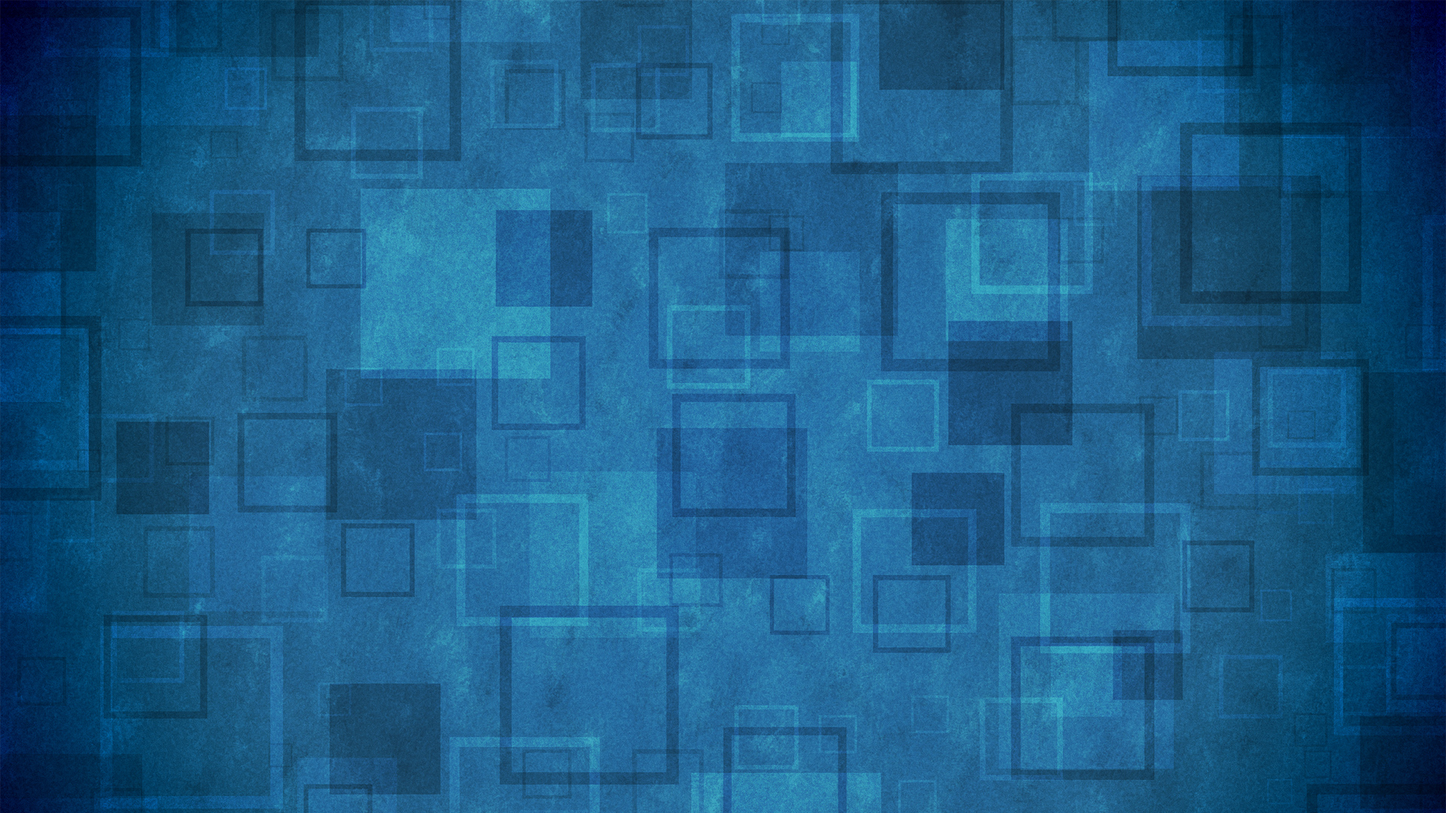
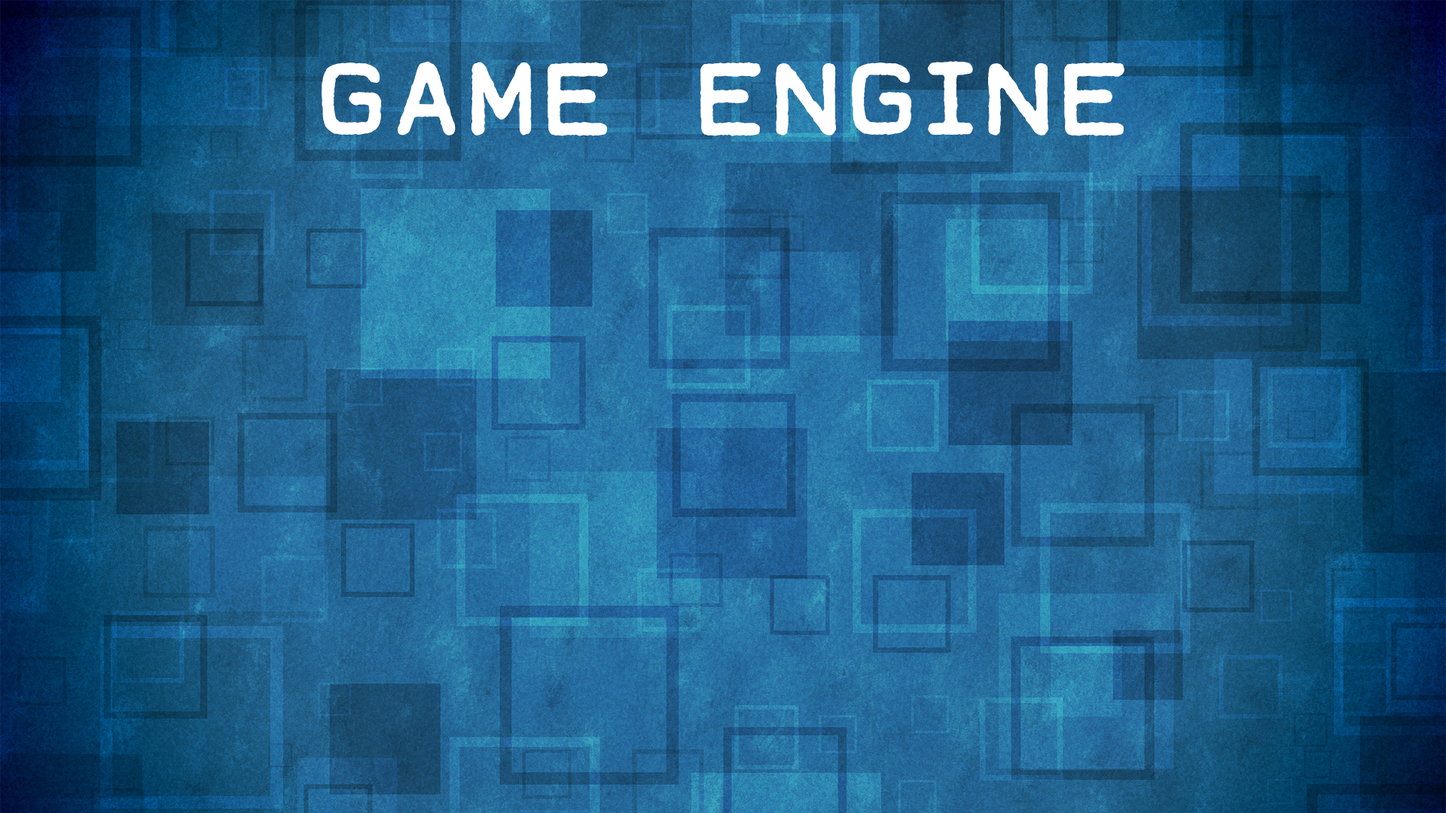
Buttons hovering now functional

Changed region(s): [[0.4688, 0.0611, 0.7812, 0.1833], [0.2188, 0.0611, 0.4375, 0.1833]]

diff --git a/include/Button.h b/include/Button.h
@@ -1,0 +1,108 @@
+
+#pragma once
+
+#include <iostream>
+#include <PreHeader.h>
+#include <Freetype.h>
+
+class Button
+{
+private:
+	////////////////////////////////////////////////////////////
+	// Member data
+	////////////////////////////////////////////////////////////
+	Freetype *m_ButtonSprite;
+	Freetype *m_ButtonHoverSprite;
+	int m_iCurrentTexID; ///< int which represents the assigned texture for button
+	bool m_bActive; ///< bool which becomes active if button is hovered over
+	glm::vec2 ButtonPos;
+	glm::vec2 m_Scale;
+
+public:
+	////////////////////////////////////////////////////////////
+	/// \brief Default constructor
+	///
+	/// Allows creation of a button without variables.
+	///
+	////////////////////////////////////////////////////////////
+	Button(); 
+
+	////////////////////////////////////////////////////////////
+	/// \brief Overloaded constructer which contructs a button from a X position, Y position, Texture ID and a TextureLoader
+	///
+	/// \param fX X Position of button
+	/// \param fY Y Position of button
+	/// \param iTextureID int Texture assigned to button
+	/// \param TexLoader TextureLoader holding textures for button
+	///
+	/// \see SetProperties
+	///
+	////////////////////////////////////////////////////////////
+	Button(float fX, float fY, int iTextureID, string ButtonLoc, string ButtonHoverLoc, vec3 scale, Freetype *Overlay); // Creates button with given parameters
+
+	////////////////////////////////////////////////////////////
+	/// \brief Creates a button using these given parameters
+	///
+	/// \param fX X Position of button
+	/// \param fY Y Position of button
+	/// \param iTextureID int Texture assigned to button
+	/// \param TexLoader TextureLoader holding textures for button
+	///
+	/// \see Button
+	///
+	////////////////////////////////////////////////////////////
+	void SetProperties(float fX, float fY, int iTextureID, string ButtonLoc, string ButtonHoverLoc, vec3 scale, Freetype *Overlay);
+
+	////////////////////////////////////////////////////////////
+	/// \brief Changes active texture on the button
+	///
+	/// \param iNewTextureID Texture index of buttons TextureLoader
+	///
+	/// \see m_TexLoader
+	///
+	////////////////////////////////////////////////////////////
+	void ChangeTexture(int iNewTextureID); 
+
+	////////////////////////////////////////////////////////////
+	/// \brief Checks if the button is being hovered over
+	///
+	/// \param MousePos Mouse cursor position
+	///
+	///
+	////////////////////////////////////////////////////////////
+	void CheckHover(sf::Vector2i MousePos, int index);
+
+	////////////////////////////////////////////////////////////
+	/// \brief Allows class to draw drawables to the screen
+	///
+	/// \param target Drawable to be drawn
+	/// \param states States to be drawn
+	///
+	////////////////////////////////////////////////////////////
+	void draw();
+
+	////////////////////////////////////////////////////////////
+	/// \brief Returns true if button is being hovered over
+	///
+	///
+	////////////////////////////////////////////////////////////
+	bool isActive();
+	~Button(); 
+
+};
+
+////////////////////////////////////////////////////////////
+/// \class Button
+///	
+/// Allows creation of clickable sprites which can perform actions.
+/// These sprites are used within the menu system for this project.
+/// 
+/// Buttons check if they are being hovered and are able to change
+/// their texture if they are. If a button is clicked while being hovered
+/// it will return its m_bActive bool as true allowing for tasked to be
+/// run and completed because of it.
+/// 
+/// To be instantiated a button needs a X position, a Y position, a int which
+/// represents which texture it should currently have and a textureloader
+/// 
+////////////////////////////////////////////////////////////

diff --git a/src/Menu.cpp b/src/Menu.cpp
@@ -22,9 +22,9 @@ void Menu::linkShaders()
 	}
 }
 
-Menu::Menu(sf::Vector2i windowSize)
+Menu::Menu(sf::Vector2i windowSizes)
 {
-	m_windowSize = windowSize;
+	m_windowSize = windowSizes;
 }
 
 void Menu::initScene(Freetype * Overlay)
@@ -35,8 +35,15 @@ void Menu::initScene(Freetype * Overlay)
 	// Stops rendered models from being transparent
 	gl::Enable(gl::DEPTH_TEST);
 
-	UI->LoadHUDImage("assets/UI/BG.png", glm::vec3(m_windowSize.x / 2, m_windowSize.y / 2, 1), 0, glm::vec3(1920,1080,1.f));
-	UI->LoadHUDImage("assets/UI/Play.png", glm::vec3(m_windowSize.x / 2, m_windowSize.y / 2, 1), 0, glm::vec3(147, 46, 1.f));
+	m_PlayButton = new Button(m_windowSize.x / 2, 700, 0, "assets/UI/Play.png", "assets/UI/PlayHover.png", glm::vec3(147.f, 46.f, 1.f), Overlay);
+
+	m_EditorButton = new Button(m_windowSize.x / 2, 600, 0, "assets/UI/WorldEditor.png", "assets/UI/WorldEditorHover.png", glm::vec3(148.f, 46.f, 1.f), Overlay);
+
+	m_ExitButton = new Button(m_windowSize.x / 2, 400, 0, "assets/UI/Exit.png", "assets/UI/ExitHover.png", glm::vec3(83, 46.f, 1.f), Overlay);
+	
+
+	//UI->LoadHUDImage("assets/UI/Play.png", glm::vec3(m_windowSize.x / 2, m_windowSize.y / 2, 1), 0, glm::vec3(147, 46, 1.f));
+	UI->LoadHUDImage("assets/UI/BG.png", glm::vec3(m_windowSize.x / 2, m_windowSize.y / 2, 1), 0, glm::vec3(1920,1080,1.f), true);
 }
 
 void Menu::setMousePos(GLFWwindow * GWindow, sf::Vector2i mousepos)
@@ -49,6 +56,9 @@ void Menu::update(float t)
 {
 	m_V = mat4(1.0f);
 	m_P = glm::perspective(90.f, (float)m_windowSize.x / m_windowSize.y, 1.f, 5000.f);
+	m_PlayButton->CheckHover(m_mousePos, 0);
+	m_EditorButton->CheckHover(m_mousePos, 2);
+	m_ExitButton->CheckHover(m_mousePos, 4);
 }
 
 void Menu::render()
@@ -56,17 +66,25 @@ void Menu::render()
 	// Check depth and clear last frame
 	gl::Clear(gl::COLOR_BUFFER_BIT | gl::DEPTH_BUFFER_BIT);
 
-	/*m_FreeType.use();
-	m_FreeType.setUniform("projection", glm::ortho(0.0f, 1920.0f, 0.f, 1080.f));
-	UI->RenderText(m_FreeType.getHandle(), "Collectable Collected", 100.f, 100.f, 1.0f, glm::vec3(0.3, 0.7f, 0.9f));*/
+	
 
 	m_ImageType.use();
-
 	for (int i = 0; i < UI->m_ImagePlane.size(); i++)
 	{
 		m_ImageType.setUniform("M", UI->m_ImagePlane.at(i).m_M);
 		m_ImageType.setUniform("P", glm::ortho(0.0f, 1920.0f, 0.f, 1080.f));
-		UI->RenderImage(i);
+		if (UI->m_ImagePlane.at(i).getVisable() == true)
+		{
+			UI->RenderImage(i);
+		}
 	}
+	
+	//m_PlayButton->draw();
+
+	m_FreeType.use();
+	m_FreeType.setUniform("projection", glm::ortho(0.0f, 1920.0f, 0.f, 1080.f));
+	UI->RenderText(m_FreeType.getHandle(), "Game Engine", m_windowSize.x / 2, 900, 1.0f, glm::vec3(1.f, 1.f, 1.f));
+
+
 	
 }

diff --git a/src/Button.cpp b/src/Button.cpp
@@ -1,0 +1,72 @@
+#include "..\include\Button.h"
+
+Button::Button()
+{
+
+}
+
+Button::Button(float fX, float fY, int iTextureID, string ButtonLoc, string ButtonHoverLoc, vec3 scale, Freetype *Overlay)
+{
+	SetProperties(fX, fY, iTextureID, ButtonLoc , ButtonHoverLoc, scale, Overlay); // Create button
+}
+
+void Button::SetProperties(float fX, float fY, int iTextureID, string ButtonLoc, string ButtonHoverLoc, vec3 scale, Freetype *Overlay)
+{
+	m_ButtonSprite = Overlay;
+	m_ButtonSprite->LoadHUDImage(ButtonLoc, vec3(fX, fY, 1), 0, scale, false);
+	m_ButtonSprite->LoadHUDImage(ButtonHoverLoc, vec3(fX, fY, 1), 0, scale, false);
+	ButtonPos = vec2(fX, fY);
+	m_Scale = vec2(scale);
+	m_bActive = true;
+}
+
+void Button::ChangeTexture(int iNewTextureID)
+{
+	
+}
+
+void Button::CheckHover(sf::Vector2i MousePos, int index)
+{
+	
+	MousePos.y = 1080 - MousePos.y; // Origins mouse at top-left instead of bottom left.
+
+	// Mouse is hovering over button
+	if (MousePos.x > (ButtonPos.x - (m_Scale.x /2)) && MousePos.x < (ButtonPos.x - (m_Scale.x / 2)) +  m_Scale.x  &&
+		MousePos.y > (ButtonPos.y - (m_Scale.y / 2)) && MousePos.y < (ButtonPos.y - (m_Scale.y / 2)) + m_Scale.y)
+	/*if (MousePos.x > 100)*/
+	{
+		//ChangeTexture(m_iCurrentTexID + 1); // Change texture to highlighted texture
+		m_bActive = true;
+		m_ButtonSprite->m_ImagePlane.at(index + 1).setVisable(true);
+		m_ButtonSprite->m_ImagePlane.at(index).setVisable(false);
+	}
+	// Mouse is not pointing at button
+	else
+	{
+		/*ChangeTexture(m_iCurrentTexID);*/
+		m_bActive = false;
+		m_ButtonSprite->m_ImagePlane.at(index).setVisable(true);
+		m_ButtonSprite->m_ImagePlane.at(index + 1).setVisable(false);
+	}
+}
+
+void Button::draw()
+{
+	//if (m_bActive)
+	//{
+	//	m_ButtonSprite->RenderImage(0);
+	//}
+	//else
+	/*{
+		m_ButtonSprite->RenderImage(1);
+	}*/
+}
+
+bool Button::isActive()
+{
+	return m_bActive;
+}
+
+Button::~Button()
+{
+}

diff --git a/include/Model.h b/include/Model.h
@@ -20,6 +20,8 @@ class Model
 	
 		bool m_bCollectable = false; // is the model a collectable?
 		bool m_bCollected = false; // has the collectable been collected?
+
+		bool m_bVisable = true; // is the model visable
 	
 		GLuint m_textureID; // ID of the texture
 		ModelReader* m_pModelReader; // Model Reader for the render the model
@@ -43,6 +45,7 @@ class Model
 		glm::vec3 getScale() { return m_scale; }; // Returns scale of model
 		bool isCollectable() { return m_bCollectable; }; // Check if a model is a collectable
 		bool getCollected() { return m_bCollected; }; // Check if a collectable has been collected
+		bool getVisable() { return m_bVisable; }; // Check if a collectable has been collected
 		int getMaterial() { return m_iMaterial; }; // Returns materialID
 	
 		void setCollectable(bool NewSetting);
@@ -51,6 +54,7 @@ class Model
 		void setTexture(GLuint textureID); // Set texture ID
 		void setFileLocation(string sNewLocation); // Set obj location
 		void setTextureLocation(string sNewLocation); // Set texture location
+		void setVisable(bool Visability); // Check if a collectable has been collected
 		void setPosition(glm::vec3 newPosition); // Set model position
 		void setRotation(glm::vec3 newRotation); // Set model rotation
 		void setScale(glm::vec3 newScale); // Set model scale

diff --git a/include/Freetype.h b/include/Freetype.h
@@ -38,6 +38,8 @@ public:
 
 	FT_Face m_Face; ///< Font
 
+	bool m_bVisable; ///< Toggles visablity of freetype asset
+
 	GLuint m_VAO; ///< VAO for drawing font
 	GLuint m_VBO; ///< VBO for drawing font
 
@@ -70,7 +72,7 @@ public:
 	///
 	////////////////////////////////////////////////////////////
 	void RenderText(GLuint ProgramHandle , std::string text, GLfloat x, GLfloat y, GLfloat scale, glm::vec3 color);
-	void LoadHUDImage(std::string imageLocation, glm::vec3 position, GLfloat rotation, glm::vec3 scale);
+	void LoadHUDImage(std::string imageLocation, glm::vec3 position, GLfloat rotation, glm::vec3 scale, bool visablity);
 	void RenderImage(int index);
 };
 

diff --git a/src/Freetype.cpp b/src/Freetype.cpp
@@ -129,9 +129,11 @@ void Freetype::RenderText(GLuint ProgramHandle, std::string text, GLfloat x, GLf
 	gl::BindTexture(gl::TEXTURE_2D, 0);
 }
 
-void Freetype::LoadHUDImage(std::string imageLocation, glm::vec3 position, GLfloat rotation, glm::vec3 scale)
+void Freetype::LoadHUDImage(std::string imageLocation, glm::vec3 position, GLfloat rotation, glm::vec3 scale, bool visablity)
 {
 	m_ImagePlane.push_back(Model("assets/Models/HUDPlane.obj", imageLocation, position, glm::vec3(0, 0, rotation), scale, 0));
+
+	m_ImagePlane.at(m_ImagePlane.size() - 1).setVisable(visablity);
 
 	m_ImagePlane.at(m_ImagePlane.size() - 1).loadModel();
 

diff --git a/include/Menu.h b/include/Menu.h
@@ -6,6 +6,7 @@
 #include "ModelReader.h"
 #include "glslprogram.h"
 #include "Freetype.h"
+#include "Button.h"
 
 class Menu : public Scene
 {
@@ -14,6 +15,10 @@ private:
 	GLSLProgram m_ImageType;
 
 	Freetype* UI;
+
+	Button *m_PlayButton;
+	Button *m_EditorButton;
+	Button *m_ExitButton;
 
 	GLuint m_programHandle; // Program context
 	glm::mat4 m_M; // Allows manipulation of each models position, rotation and scale

diff --git a/src/Model.cpp b/src/Model.cpp
@@ -53,6 +53,11 @@ void  Model::setTextureLocation(string sNewLocation)
 	m_sTexture = sNewLocation;
 }
 
+void Model::setVisable(bool Visability)
+{
+	m_bVisable = Visability;
+}
+
 void  Model::setPosition(glm::vec3 newPosition)
 {
 	m_position = newPosition;
